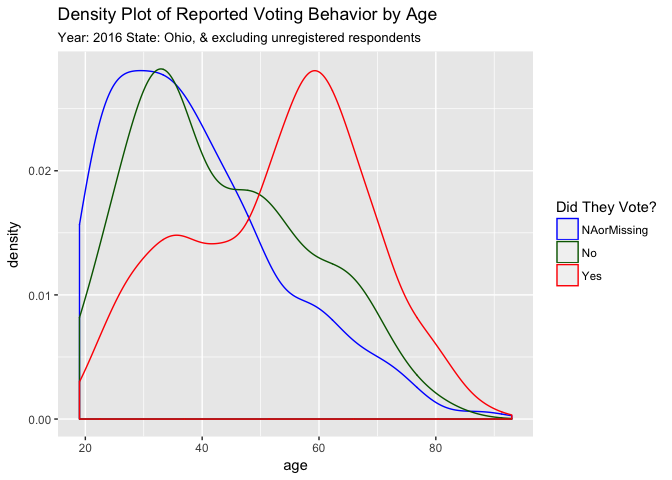
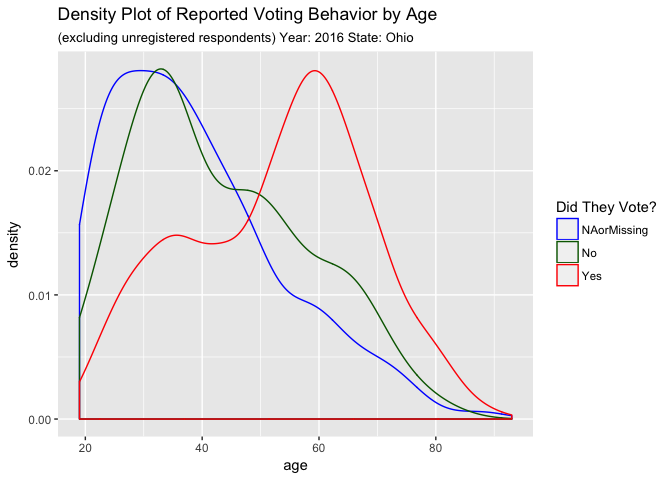
updated visualizations

Changed region(s): [[0.0625, 0.0625, 0.625, 0.0938]]

diff --git a/Viz/Poster_Viz.md b/Viz/Poster_Viz.md
@@ -43,7 +43,7 @@ ggplot(vote16complete, aes(age, col = voted)) + geom_density() + ggtitle('Densit
 ``` r
 #Next I am going to filter out the voters who did not register, and then visualize density by age
 filteredRegistered <- filter(vote16complete, registered == 'Yes')
-ggplot(filteredRegistered, aes(age, col = voted)) + geom_density() + ggtitle('Density Plot of Reported Voting Behavior by Age ', subtitle =  'Year: 2016 State: Ohio, & excluding unregistered respondents') + labs(col = "Did They Vote?") + scale_color_manual(values=c("blue", "#006400","red"), name="Did They Vote?", breaks=c("NAorMissing", "no", "yes"),  labels=c("NAorMissing", "No", "Yes"))
+ggplot(filteredRegistered, aes(age, col = voted)) + geom_density() + ggtitle('Density Plot of Reported Voting Behavior by Age ', subtitle =  '(excluding unregistered respondents) Year: 2016 State: Ohio') + labs(col = "Did They Vote?") + scale_color_manual(values=c("blue", "#006400","red"), name="Did They Vote?", breaks=c("NAorMissing", "no", "yes"),  labels=c("NAorMissing", "No", "Yes"))
 ```
 
 ![](Poster_Viz_files/figure-markdown_github/unnamed-chunk-3-2.png)
@@ -108,6 +108,7 @@ viz16 <- read_csv("~/oh-elections-project/CCES_Files/vote16_long.csv")
     ## )
 
 ``` r
+smallviz16 <- viz16 %>% select(age, voted) %>% group_by(age) %>% summarize(percent_voted = base::mean(voted == "yes"), n())
 unweightedviz16 <-read_csv("~/oh-elections-project/CCES_Files/CCES_vote16.csv")
 ```
 
@@ -125,8 +126,6 @@ unweightedviz16 <-read_csv("~/oh-elections-project/CCES_Files/CCES_vote16.csv")
     ## )
 
 ``` r
-smallviz16 <- viz16 %>% select(age, voted) %>% group_by(age) %>% summarize(percent_voted = base::mean(voted == "yes"), n())
-
 #tidying it up so we can merge
 
 
@@ -165,8 +164,8 @@ ggplot(ohio_age_vote, aes(age, fill = vote)) + geom_bar(position = "dodge") + yl
 ``` r
 #figuring out which df to use
 theme_update(plot.title = element_text(hjust = 0.5))
-theme_update(plot.subtitle = element_text(hjust = 0.5))
-ggplot(ohio_age_vote1, aes(age, fill = newvote)) + geom_bar(position = "dodge") + ylab('Total Count') + xlab("Age") + ggtitle('Actual Voting Behavior by Age (2016)') + scale_fill_manual(values=c("#000000", "#FF0000"), name="Did They Vote?", breaks=c("O", "X"),  labels=c(" No", "Yes"))
+
+ggplot(ohio_age_vote1, aes(age, fill = newvote)) + geom_bar(position = "dodge") + ylab('Total Count') + xlab("Age") + ggtitle('Actual Voting Behavior by Age', subtitle =  'Year: 2016 State: Ohio') + scale_fill_manual(values=c("#000000", "#FF0000"), name="Did They Vote?", breaks=c("O", "X"),  labels=c(" No", "Yes"))
 ```
 
 ![](Poster_Viz_files/figure-markdown_github/unnamed-chunk-8-1.png)
